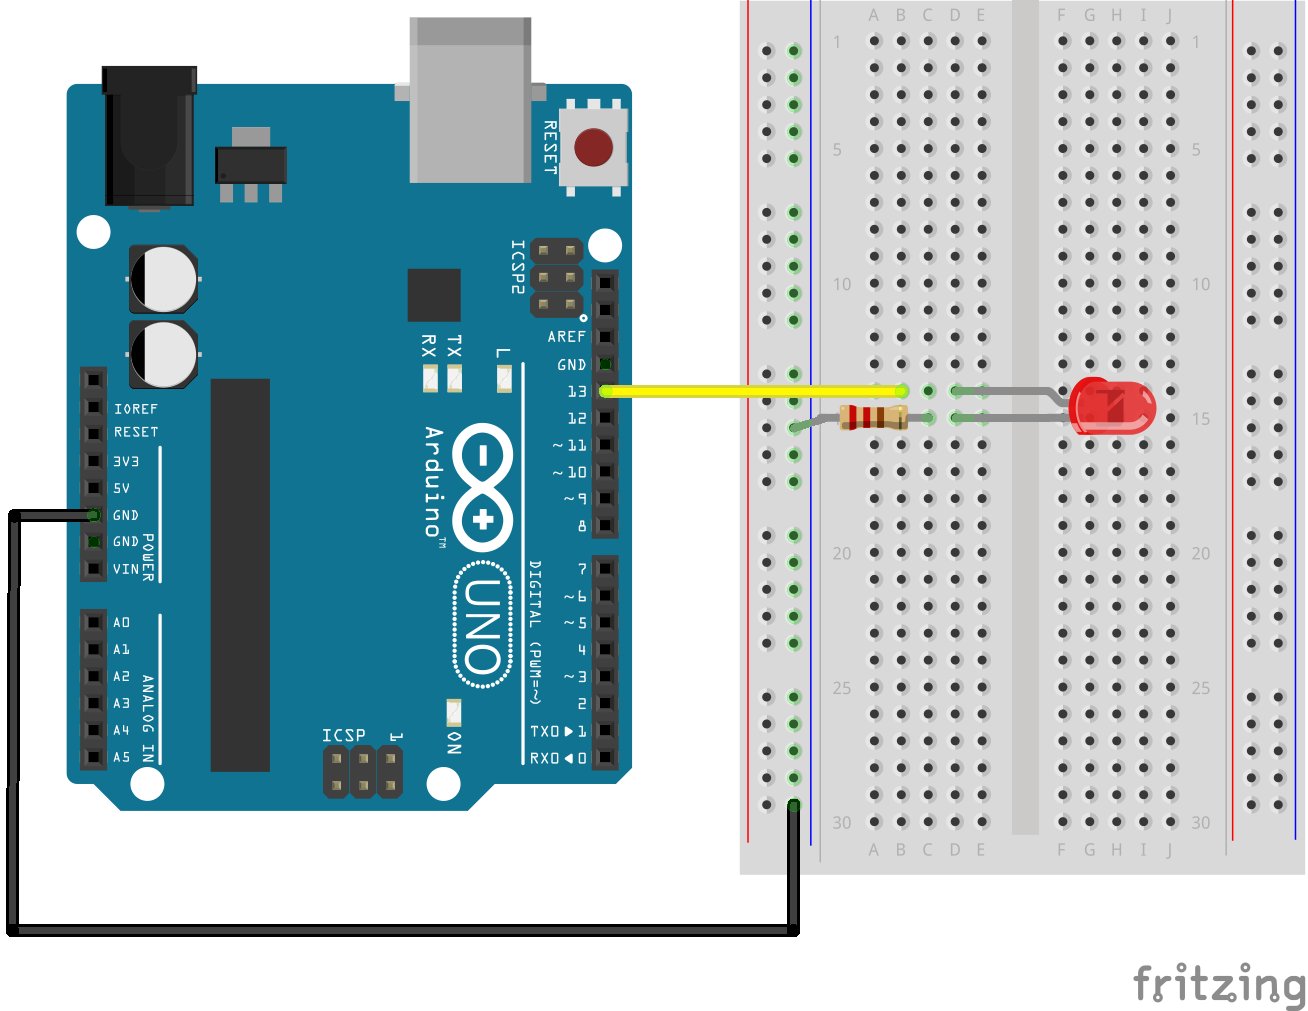
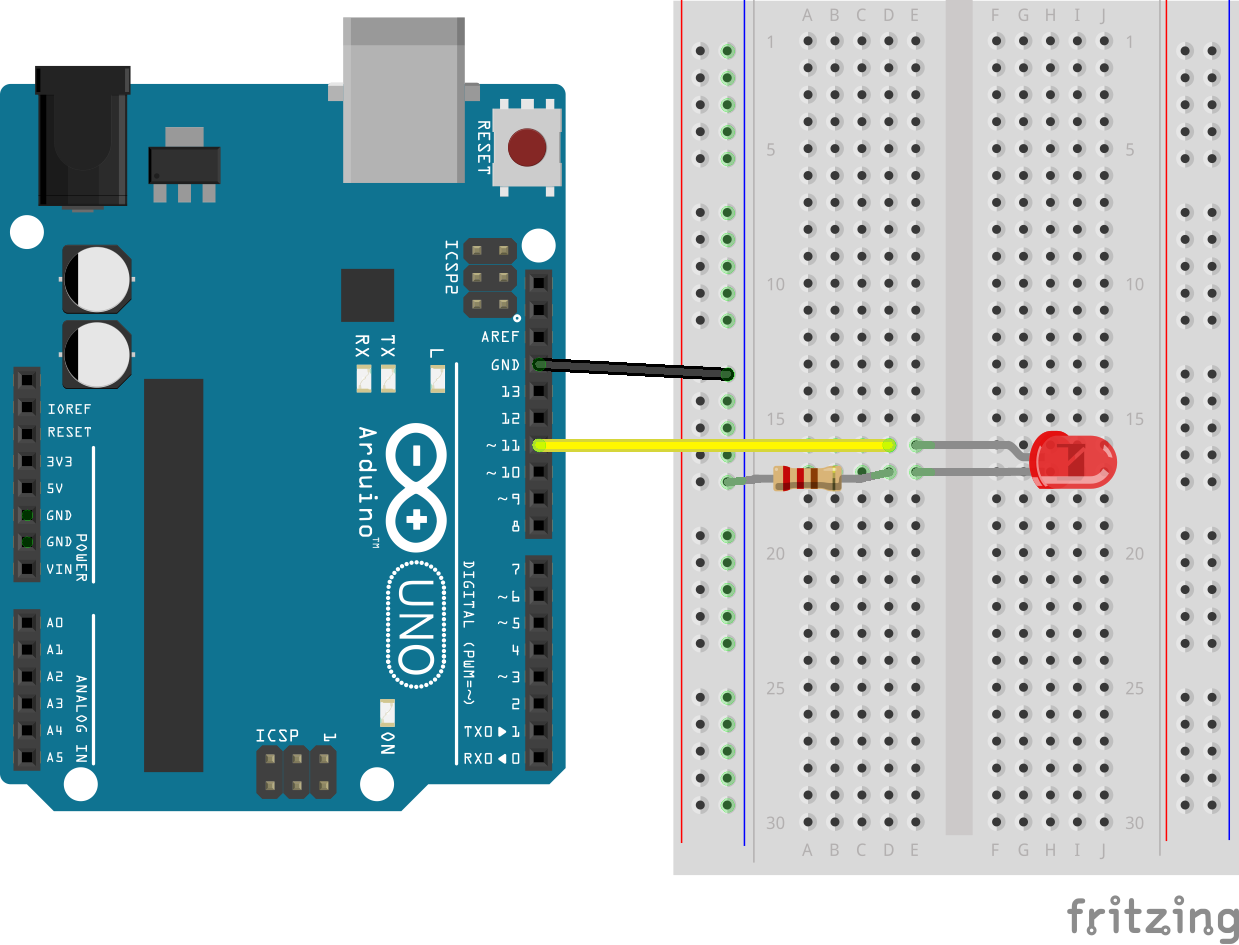
Updated docs, breadboard to use PWM pin
The new led.js example requires PWM

diff --git a/docs/led.md b/docs/led.md
@@ -8,15 +8,100 @@ node eg/led.js
 
 ```javascript
 var five = require("johnny-five"),
+  temporal = require("temporal"),
   board = new five.Board();
 
 board.on("ready", function() {
-  // Default to pin 13
-  var led = new five.Led(process.argv[2] || 13);
+
+  // Defaults to pin 11 (must be PWM)
+  var led = new five.Led(process.argv[2] || 11);
 
   this.repl.inject({
     led: led
   });
+
+  temporal.queue([{
+    delay: 0,
+    task: function() {
+      // on()
+      //
+      // Turns the led on
+      led.on();
+      console.log("led on");
+    }
+  }, {
+    delay: 2000,
+    task: function() {
+      // off()
+      //
+      // Turns the led off
+      led.off();
+      console.log("led off");
+    }
+  }, {
+    delay: 1000,
+    task: function() {
+      // pulse( rate )
+      //
+      // Pulse the led (fade on/off)
+      // pinMode will be changed to PWM automatically
+      led.pulse( 2000 );
+      console.log("led pulse");
+    }
+  }, {
+    delay: 6000,
+    task: function() {
+      // strobe( rate )
+      //
+      // Strobe the led (on/off)
+      led.strobe(500);
+      console.log("led strobe");
+    }
+  }, {
+    delay: 5000,
+    task: function() {
+      // stop()
+      //
+      // Stop the pulse
+      led.stop();
+      console.log("led stop");
+
+      // If you want to make sure it's off
+      // in case it stopped it while on
+      led.off();
+    }
+  }, {
+    delay: 500,
+    task: function() {
+      // fadeIn()
+      //
+      // Fade in the led
+      // pinMode will be changed to PWM automatically
+      led.fadeIn(3000);
+      console.log("led fadeIn");
+    }
+  }, {
+    delay: 5000,
+    task: function() {
+      // fadeOut()
+      //
+      // Fade out the led
+      // pinMode will be changed to PWM automatically
+      led.fadeOut(3000);
+      console.log("led fadeOut");
+    }
+  }, {
+    delay: 5000,
+    task: function() {
+      // brightness ()
+      //
+      // set analog brightness (0-255)
+      led.brightness(5);
+      console.log("led brightness");
+    }
+  }]);
+
+
 });
 
 
@@ -31,18 +116,9 @@ board.on("ready", function() {
 
 
 
-This script will make `led` available in the REPL, by default on pin 13.
-Now you can try, e.g.:
-
-`>> led.on()`
-
-or
-
-`>> led.off()`
-
-To use other `Led` methods, like `fade`, `pulse`, `animate`, you'll need to
-wire the LED to a PWM pin. If you use a different pin, make sure to run
-the script with the correct pin number:
+To make use of `Led` methods like `fade`, `pulse`, `animate`,
+you'll need to wire an LED to a PWM pin.
+If you use a different pin, make sure to run the script with the correct pin number:
 
 `node eg/led.js [pinNumber]`
 

diff --git a/docs/led-rgb.md b/docs/led-rgb.md
@@ -7,12 +7,14 @@ node eg/led-rgb.js
 
 
 ```javascript
-var five = require("johnny-five");
+var five = require("johnny-five"),
+  keypress = require("keypress");
+
 
 five.Board().on("ready", function() {
-  var a = new five.Led.RGB([9, 10, 11]);
 
-  var b = new five.Led.RGB({
+  // Initialize the RGB LED
+  var led = new five.Led.RGB({
     pins: {
       red: 3,
       green: 5,
@@ -20,13 +22,51 @@ five.Board().on("ready", function() {
     }
   });
 
+  // RGB LED alternate constructor
+  // This will normalize an array of pins in [r, g, b]
+  // order to an object (like above) that's shaped like:
+  // {
+  //   red: r,
+  //   green: g,
+  //   blue: b
+  // }
+  //var led = new five.Led.RGB([3,5,6]);
+
+  // Add led to REPL (optional)
   this.repl.inject({
-    a: a,
-    b: b
+    led: led
   });
 
-  a.pulse();
-  b.pulse();
+  // Turn it on and set the initial color
+  led.on();
+  led.color("#FF0000");
+
+  // Listen for user input to change the RGB color
+  process.stdin.resume();
+  process.stdin.setEncoding("utf8");
+  process.stdin.setRawMode(true);
+
+  var keymap = {
+    r: "#FF0000", // red
+    g: "#00FF00", // green
+    b: "#0000FF", // blue
+    w: "#FFFFFF"  // white
+  };
+
+  process.stdin.on("keypress", function(ch, key) {
+
+    if (!key) {
+      return;
+    }
+
+    if (keymap[key.name]) {
+      led.color(keymap[key.name]);
+    } else {
+      led.off();
+    }
+
+  });
+
 });
 
 ```

diff --git a/README.md b/README.md
@@ -203,14 +203,10 @@ board.on("ready", function() {
 - [Laser](https://github.com/rwldrn/johnny-five/blob/master/docs/laser.md)
 - [Led](https://github.com/rwldrn/johnny-five/blob/master/docs/led.md)
 - [Led Matrix](https://github.com/rwldrn/johnny-five/blob/master/docs/led-matrix.md)
-- [Led Fade](https://github.com/rwldrn/johnny-five/blob/master/docs/led-fade.md)
 - [Led Fade Callback](https://github.com/rwldrn/johnny-five/blob/master/docs/led-fade-callback.md)
-- [Led On Off](https://github.com/rwldrn/johnny-five/blob/master/docs/led-on-off.md)
-- [Led Pulse](https://github.com/rwldrn/johnny-five/blob/master/docs/led-pulse.md)
 - [Led Rgb](https://github.com/rwldrn/johnny-five/blob/master/docs/led-rgb.md)
 - [Led Rgb Anode](https://github.com/rwldrn/johnny-five/blob/master/docs/led-rgb-anode.md)
 - [Led Rainbow](https://github.com/rwldrn/johnny-five/blob/master/docs/led-rainbow.md)
-- [Led Strobe](https://github.com/rwldrn/johnny-five/blob/master/docs/led-strobe.md)
 - [Seven Segment](https://github.com/rwldrn/johnny-five/blob/master/docs/seven-segment.md)
 
 ### Magnetometer (Compass)
